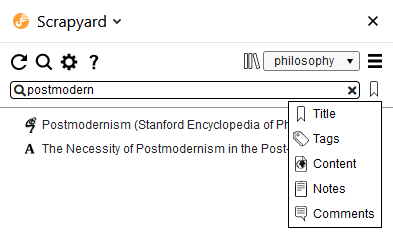
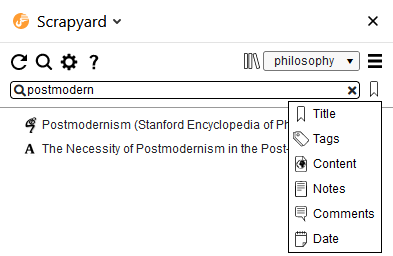
added sidebar filtering by date

Changed region(s): [[0.0, 0.1803, 1.0, 0.9914], [0.0305, 0.03, 0.3053, 0.1502], [0.916, 0.0601, 0.9771, 0.1202]]

diff --git a/addon/sidebar.js b/addon/sidebar.js
@@ -6,10 +6,9 @@ import {BookmarkTree} from "./tree.js"
 import {showDlg, confirm} from "./dialog.js"
 
 import {
-    SEARCH_MODE_TITLE,
-    SEARCH_MODE_TAGS,
-    SEARCH_MODE_CONTENT,
-    SearchContext, SEARCH_MODE_NOTES, SEARCH_MODE_COMMENTS
+    SearchContext,
+    SEARCH_MODE_TITLE, SEARCH_MODE_TAGS, SEARCH_MODE_CONTENT,
+    SEARCH_MODE_NOTES, SEARCH_MODE_COMMENTS, SEARCH_MODE_DATE
 } from "./search.js";
 
 import {formatShelfName, openPage, pathToNameExt, showNotification} from "./utils.js";
@@ -183,31 +182,43 @@ window.onload = async function () {
 
     $("#shelf-menu-search-title").click(() => {
         $("#search-mode-switch").prop("src", "icons/bookmark.svg");
+        $("#search-input").attr("placeholder", "");
         context.setMode(SEARCH_MODE_TITLE, getCurrentShelf().name);
         performSearch();
     });
 
     $("#shelf-menu-search-tags").click(() => {
         $("#search-mode-switch").prop("src", "icons/tags.svg");
+        $("#search-input").attr("placeholder", "");
         context.setMode(SEARCH_MODE_TAGS, getCurrentShelf().name);
         performSearch();
     });
 
     $("#shelf-menu-search-content").click(() => {
         $("#search-mode-switch").prop("src", "icons/content-web.svg");
+        $("#search-input").attr("placeholder", "");
         context.setMode(SEARCH_MODE_CONTENT, getCurrentShelf().name);
         performSearch();
     });
 
     $("#shelf-menu-search-notes").click(() => {
         $("#search-mode-switch").prop("src", "icons/content-notes.svg");
+        $("#search-input").attr("placeholder", "");
         context.setMode(SEARCH_MODE_NOTES, getCurrentShelf().name);
         performSearch();
     });
 
     $("#shelf-menu-search-comments").click(() => {
         $("#search-mode-switch").prop("src", "icons/content-comments.svg");
+        $("#search-input").attr("placeholder", "");
         context.setMode(SEARCH_MODE_COMMENTS, getCurrentShelf().name);
+        performSearch();
+    });
+
+    $("#shelf-menu-search-date").click(() => {
+        $("#search-mode-switch").prop("src", "icons/calendar.svg");
+        $("#search-input").attr("placeholder", "examples: 2021-02-24, before 2021-02-24, after 2021-02-24")
+        context.setMode(SEARCH_MODE_DATE, getCurrentShelf().name);
         performSearch();
     });
 
@@ -462,32 +473,27 @@ function getCurrentShelf() {
     };
 }
 
-function validSearchInput(input) {
-    return input && input.length > 2;
-}
-
 function canSearch() {
-    let input = $("#search-input").val();
-
-    return validSearchInput(input);
+    return context.isInputValid($("#search-input").val());
 }
 
 async function performSearch() {
     let input = $("#search-input").val();
 
-    if (validSearchInput(input) && !context.isInSearch) {
+    if (context.isInputValid(input) && !context.isInSearch) {
         context.inSearch();
     }
-    else if (!validSearchInput(input) && context.isInSearch) {
+    else if (!context.isInputValid(input) && context.isInSearch) {
         const {id} = getCurrentShelf();
         context.outOfSearch();
         switchShelf(id, false);
     }
 
-    if (validSearchInput(input))
-        return context.search(input).then(nodes => {
-            tree.list(nodes);
-        });
+    if (context.isInputValid(input))
+        return context.search(input)
+            .then(nodes => {
+                tree.list(nodes);
+            });
 }
 
 function performImport(file, file_name, file_ext) {

diff --git a/addon/search.js b/addon/search.js
@@ -4,17 +4,21 @@ import {ENDPOINT_TYPES, EVERYTHING, NODE_TYPE_ARCHIVE, NODE_TYPE_BOOKMARK} from 
 import {openContainerTab} from "./utils.js";
 
 
-export const SEARCH_MODE_SCRAPYARD = 1;
-export const SEARCH_MODE_TITLE = 2;
-export const SEARCH_MODE_TAGS = 3;
-export const SEARCH_MODE_CONTENT = 4;
-export const SEARCH_MODE_NOTES = 5;
-export const SEARCH_MODE_COMMENTS = 6;
+export const SEARCH_MODE_TITLE = 1;
+export const SEARCH_MODE_TAGS = 2;
+export const SEARCH_MODE_CONTENT = 3;
+export const SEARCH_MODE_NOTES = 4;
+export const SEARCH_MODE_COMMENTS = 5;
+export const SEARCH_MODE_DATE = 6;
 
 
 class SearchProvider {
     constructor(shelf) {
         this.shelf = shelf;
+    }
+
+    isInputValid(text) {
+        return text && text.length > 2;
     }
 }
 
@@ -87,30 +91,45 @@ export class ContentSearchProvider extends SearchProvider {
     }
 }
 
-export class ScrapyardSearchProvider extends SearchProvider {
+export class DateSearchProvider extends SearchProvider {
     constructor(shelf) {
-        super(shelf);
-
-        this.providers = [
-            new TitleSearchProvider(shelf),
-            new TagSearchProvider(shelf),
-            new ContentSearchProvider(shelf)
-        ];
+        super(shelf)
     }
-    async search(text) {
-        let result = [];
 
-        if (text)
-            for (let provider of this.providers) {
-                let output = await provider.search(text);
-                if (output)
-                    result = result.concat(output);
+    search(text) {
+        let path;
+        if (this.shelf !== EVERYTHING)
+            path = this.shelf;
+
+        if (text) {
+            const m = /(.*)(\d{4}-\d{2}-\d{2})/.exec(text.trim().toLowerCase());
+            return backend.listNodes({
+                depth: "subtree",
+                path: path,
+                date: m[2],
+                period: m[1].trim(),
+                types: ENDPOINT_TYPES
+            });
+        }
+        return [];
+    }
+
+    isInputValid(text) {
+        const daterx = /^(?:\d{4}-\d{2}-\d{2})|(?:before\s+\d{4}-\d{2}-\d{2})|(?:after\s+\d{4}-\d{2}-\d{2})$/i;
+
+        if (super.isInputValid(text)) {
+            text = text.trim()
+            if (daterx.test(text)) {
+                const m = /(.*)(\d{4}-\d{2}-\d{2})/.exec(text);
+
+                if (!isNaN(new Date(m[2])))
+                    return true;
             }
+        }
 
-        return result.removeDups("id");
+        return false;
     }
 }
-
 
 export class SearchContext {
     constructor(tree) {
@@ -143,9 +162,6 @@ export class SearchContext {
         this.shelf = shelf;
 
         switch (search_mode) {
-            case SEARCH_MODE_SCRAPYARD:
-                this.provider = new ScrapyardSearchProvider(shelf);
-                break;
             case SEARCH_MODE_TITLE:
                 this.provider = new TitleSearchProvider(shelf);
                 break;
@@ -161,11 +177,18 @@ export class SearchContext {
             case SEARCH_MODE_COMMENTS:
                 this.provider = new ContentSearchProvider(shelf, "comments");
                 break;
+            case SEARCH_MODE_DATE:
+                this.provider = new DateSearchProvider(shelf);
+                break;
         }
     }
 
     search(text) {
         return this.provider.search(text);
+    }
+
+    isInputValid(text) {
+        return this.provider.isInputValid(text);
     }
 }
 

diff --git a/addon/storage_idb.js b/addon/storage_idb.js
@@ -244,7 +244,7 @@ class IDBStorage {
     }
 
     async queryNodes(group, options) {
-        let {search, tags, types, path, limit, depth, order} = options;
+        let {search, tags, date, period, types, path, limit, depth, order} = options;
         let searchrx = search? new RegExp(search, "i"): null;
         let query = dexie.nodes;
 
@@ -266,24 +266,50 @@ class IDBStorage {
             query = query.where("id").anyOf(subtree);
         }
 
+        if (date) {
+            date = (new Date(date)).getTime();
+            if (isNaN(date))
+                date = null;
+            if (date && period)
+                period = period === "after"? 1: -1;
+            else
+                period = 0;
+        }
+
         let filterf = node => {
             let result = path && !todo_shelf && !done_shelf? !!group: true;
 
             if (types)
                 result = result && types.some(t => t == node.type);
 
-            if (search)
-                result = result && (searchrx.test(node.name) || searchrx.test(node.uri));
-
             if (todo_shelf)
                 result = result && node.todo_state && node.todo_state < TODO_STATE_DONE;
             else if (done_shelf)
                 result = result && node.todo_state && node.todo_state >= TODO_STATE_DONE;
 
-            if (tags) {
+            if (search)
+                result = result && (searchrx.test(node.name) || searchrx.test(node.uri));
+            else if (tags) {
                 if (node.tag_list) {
                     let intersection = tags.filter(value => node.tag_list.some(t => t.startsWith(value)));
                     result = result && intersection.length > 0;
+                }
+                else
+                    result = false;
+            }
+            else if (date) {
+                const nodeMillis = node.date_added?.getTime? node.date_added.getTime(): null;
+
+                if (nodeMillis) {
+                    const nodeDate = new Date(nodeMillis);
+                    nodeDate.setUTCHours(0, 0, 0, 0);
+
+                    if (period === 0)
+                        result = result && date === nodeDate.getTime();
+                    else if (period > 0)
+                        result = result && date < nodeDate.getTime();
+                    else if (period < 0)
+                        result = result && date > nodeDate.getTime();
                 }
                 else
                     result = false;

diff --git a/addon/changes.html b/addon/changes.html
@@ -1,5 +1,12 @@
 <div>
 
+    <h3>v0.11.8 <span class="change-date">May 9, 2021</span></h3>
+    <ul class="change-info">
+        <li>Added sidebar filtering by date.</li>
+        <li>In the case of critical errors during Scrapyard initialization, error technical details could be
+            viewed at a dedicated page.</li>
+    </ul>
+
     <h3>v0.11.2 <span class="change-date">April 26, 2021</span></h3>
     <ul class="change-info">
         <li>Added "Locate" context menu item for filtered bookmarks.</li>
@@ -83,7 +90,7 @@
 
     <h3>v0.4.10 <span class="change-date">July 2, 2020</span></h3>
     <ul class="change-info">
-        <li>Added "Repair icons..." folder context menu item.</li>
+        <li>Added "Repair icons..." folder context menu item (lately renamed to "Check Links" with the same functionality).</li>
     </ul>
 
     <h3>v0.4.4 <span class="change-date">March 29, 2020</span></h3>

diff --git a/addon/backend.js b/addon/backend.js
@@ -218,6 +218,8 @@ export class Backend extends ExternalEventProvider {
     async listNodes(options //{search, // filter by node name or URL
                       // path,   // filter by hierarchical node group path (string), the first item in the path is a name of a shelf
                       // tags,   // filter for node tags (string, containing comma separated list)
+                      // date,   // filter nodes by date
+                      // period, // chronological period: "" (exact date), "before", "after"
                       // types,  // filter for node types (array of integers)
                       // limit,  // limit for the returned record number
                       // depth,  // specify depth of search: "group", "subtree" or "root+subtree"

diff --git a/addon/sidebar.html b/addon/sidebar.html
@@ -190,6 +190,7 @@
                     <img class="search-icon midnight-filter-menu" src="icons/content-web.svg"><div id="shelf-menu-search-content">Content</div>
                     <img class="search-icon midnight-filter-menu" src="icons/content-notes.svg"><div id="shelf-menu-search-notes">Notes</div>
                     <img class="search-icon midnight-filter-menu" src="icons/content-comments.svg"><div id="shelf-menu-search-comments">Comments</div>
+                    <img class="search-icon midnight-filter-menu" src="icons/calendar.svg"><div id="shelf-menu-search-date">Date</div>
                 </div>
 			</div>
         </div>

diff --git a/addon/help.html b/addon/help.html
@@ -123,7 +123,7 @@
 
     <h3 id="search">Search</h3>
     <p>The search input field at the Scrapyard sidebar allows to filter bookmarks of the current shelf
-        by title/URL, tags, content of archived web-pages, content of attached notes or comments.
+        by title/URL, tags, date, content of archived web-pages, content of attached notes or comments.
         Use the "Everything" shelf to search through all bookmarks. Although this filter is
         reasonably fast, it matches all items that contain all the entered words longer than 2 characters
         in any order and distance.</p>

diff --git a/README.md b/README.md
@@ -35,6 +35,13 @@ to obtain the desired features.
 * ~~Automation API [DONE]~~
 * ~~Full text search through archived content, notes and comments [DONE]~~
 
+### Project status
+
+Currently, the project is considered as a permanent alpha: be prepared for breaking changes, devastating bugs and
+groundbreaking experiments. Please, backup your Firefox profile often. Scrapyard also could be incredibly buggy at times,
+when major internal refactoring are performed, since I have not enough resources for proper QA, so users are the last
+frontier of it. Nevertheless, do not forget to donate if you have a good use of the software.
+
 ### The current status of cloud support
 
 Currently, cloud bookmarking is implemented on the basis of the Dropbox HTTP API, which is by definition a mock
